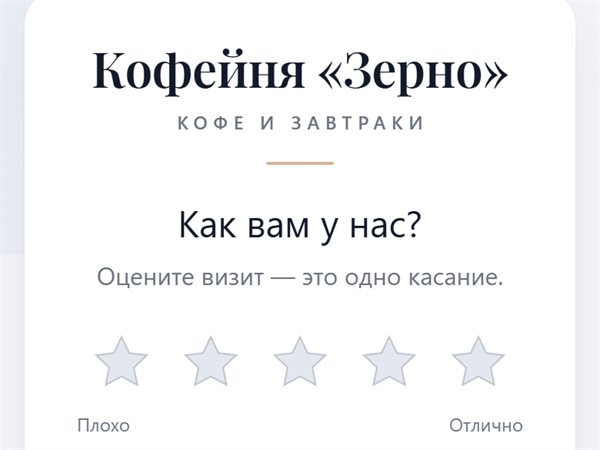
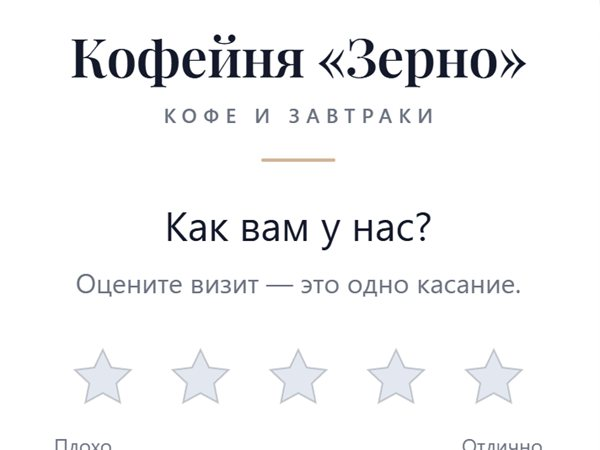
Лендинг: скриншоты без серых полос по бокам

diff --git a/index.html b/index.html
@@ -1100,7 +1100,7 @@
           <h3 class="panel-title">Гостю</h3>
           <div class="role-grid">
             <article class="feat">
-              <figure class="shot"><img src="/assets/roles/g1-rate.jpg" width="600" height="450" alt="Экран гостя после касания карты: «Как вам у нас?» и пять звёзд" loading="lazy" decoding="async"></figure>
+              <figure class="shot"><img src="/assets/roles/g1-rate.jpg?v=2" width="600" height="450" alt="Экран гостя после касания карты: «Как вам у нас?» и пять звёзд" loading="lazy" decoding="async"></figure>
               <h3>Отзыв за 10 секунд</h3>
               <p>Касание, оценка — и форма отзыва на картах уже открыта. Без приложений и регистрации.</p>
             </article>
@@ -1134,12 +1134,12 @@
               <p>Колесо подарков после оценки, штампы за визиты и особый подарок постоянным гостям.</p>
             </article>
             <article class="feat">
-              <figure class="shot"><img src="/assets/roles/g3-points.jpg" width="600" height="450" alt="Экран баллов гостя: код для персонала и баланс 340 баллов" loading="lazy" decoding="async"></figure>
+              <figure class="shot"><img src="/assets/roles/g3-points.jpg?v=2" width="600" height="450" alt="Экран баллов гостя: код для персонала и баланс 340 баллов" loading="lazy" decoding="async"></figure>
               <h3>Баллы с каждого чека</h3>
               <p>Гость показывает код, баллы копятся и потом списываются как скидка.</p>
             </article>
             <article class="feat">
-              <figure class="shot"><img src="/assets/roles/g4-table.jpg" width="600" height="450" alt="Карта на столе: кнопки «Позвать официанта», «Попросить счёт» и «Меню и заказ»" loading="lazy" decoding="async"></figure>
+              <figure class="shot"><img src="/assets/roles/g4-table.jpg?v=2" width="600" height="450" alt="Карта на столе: кнопки «Позвать официанта», «Попросить счёт» и «Меню и заказ»" loading="lazy" decoding="async"></figure>
               <h3>Меню и официант со стола</h3>
               <p>Меню с фото, заказ прямо со стола, «Позвать официанта» и «Попросить счёт».</p>
               <p class="plan-tag">Модуль «Сервис в зале»</p>
@@ -1151,24 +1151,24 @@
           <h3 class="panel-title">Персоналу</h3>
           <div class="role-grid">
             <article class="feat">
-              <figure class="shot"><img src="/assets/roles/s1-calls.jpg" width="600" height="450" alt="Телефон официанта: вызовы «Стол 5 — просят счёт» с кнопками «Принял» и «Готово»" loading="lazy" decoding="async"></figure>
+              <figure class="shot"><img src="/assets/roles/s1-calls.jpg?v=2" width="600" height="450" alt="Телефон официанта: вызовы «Стол 5 — просят счёт» с кнопками «Принял» и «Готово»" loading="lazy" decoding="async"></figure>
               <h3>Вызовы со звуком</h3>
               <p>Официант видит «Стол 5 — просят счёт» на своём телефоне и в чате смены. Не нужно ловить взгляд гостя.</p>
               <p class="plan-tag">Модуль «Сервис в зале»</p>
             </article>
             <article class="feat">
-              <figure class="shot"><img src="/assets/roles/s2-order.jpg" width="600" height="450" alt="Заказ со стола 7 на телефоне официанта: капучино и чизкейк" loading="lazy" decoding="async"></figure>
+              <figure class="shot"><img src="/assets/roles/s2-order.jpg?v=2" width="600" height="450" alt="Заказ со стола 7 на телефоне официанта: капучино и чизкейк" loading="lazy" decoding="async"></figure>
               <h3>Заказ со стола — сразу официанту</h3>
               <p>Гость выбрал блюда в меню, официант получил готовый список. Меньше беготни и ошибок в заказе.</p>
               <p class="plan-tag">Модуль «Сервис в зале»</p>
             </article>
             <article class="feat">
-              <figure class="shot"><img src="/assets/roles/s3-staff.jpg" width="600" height="450" alt="Статистика владельца: оценки официантов Анны и Ильи" loading="lazy" decoding="async"></figure>
+              <figure class="shot"><img src="/assets/roles/s3-staff.jpg?v=2" width="600" height="450" alt="Статистика владельца: оценки официантов Анны и Ильи" loading="lazy" decoding="async"></figure>
               <h3>Личные оценки и чаевые</h3>
               <p>У официанта своя карта: оценки гостей засчитываются ему, а чаевые идут по его личной ссылке.</p>
             </article>
             <article class="feat">
-              <figure class="shot"><img src="/assets/roles/s4-desk.jpg" width="600" height="450" alt="Касса подарков: код введён, «Код погашен — можно выдавать подарок»" loading="lazy" decoding="async"></figure>
+              <figure class="shot"><img src="/assets/roles/s4-desk.jpg?v=2" width="600" height="450" alt="Касса подарков: код введён, «Код погашен — можно выдавать подарок»" loading="lazy" decoding="async"></figure>
               <h3>Подарок — за 2 секунды</h3>
               <p>Ввели 6 символов на ссылке-кассе — подарок погашен. Без кассового софта и планшета.</p>
             </article>
@@ -1179,23 +1179,23 @@
           <h3 class="panel-title">Владельцу</h3>
           <div class="role-grid">
             <article class="feat">
-              <figure class="shot"><img src="/assets/roles/o1-complaints.jpg" width="600" height="450" alt="Сообщение недовольного гостя с причиной и номером для звонка" loading="lazy" decoding="async"></figure>
+              <figure class="shot"><img src="/assets/roles/o1-complaints.jpg?v=2" width="600" height="450" alt="Сообщение недовольного гостя с причиной и номером для звонка" loading="lazy" decoding="async"></figure>
               <h3>Жалобы — вам первым</h3>
               <p>Если гостю что-то не понравилось, он пишет вам в Telegram с причиной и может попросить перезвонить.</p>
             </article>
             <article class="feat">
-              <figure class="shot"><img src="/assets/roles/o2-funnel.jpg" width="600" height="450" alt="Путь гостя: открыли страницу, оценили, перешли к отзыву, получили подарок" loading="lazy" decoding="async"></figure>
+              <figure class="shot"><img src="/assets/roles/o2-funnel.jpg?v=2" width="600" height="450" alt="Путь гостя: открыли страницу, оценили, перешли к отзыву, получили подарок" loading="lazy" decoding="async"></figure>
               <h3>Путь гостя в цифрах</h3>
               <p>Сколько людей открыли карту, оценили, перешли к отзыву и вернулись за подарком. По каждой карте и точке.</p>
             </article>
             <article class="feat">
-              <figure class="shot"><img src="/assets/roles/o3-ai.jpg" width="600" height="450" alt="AI-разбор: срочное сообщение о возможном отравлении" loading="lazy" decoding="async"></figure>
+              <figure class="shot"><img src="/assets/roles/o3-ai.jpg?v=2" width="600" height="450" alt="AI-разбор: срочное сообщение о возможном отравлении" loading="lazy" decoding="async"></figure>
               <h3>AI отмечает срочное</h3>
               <p>Отравление, грубость, опасная ситуация — сразу с пометкой «Срочно». По понедельникам — разбор недели.</p>
               <p class="plan-tag">Модуль «AI»</p>
             </article>
             <article class="feat">
-              <figure class="shot"><img src="/assets/roles/o4-score.jpg" width="600" height="450" alt="TapReview Score заведения: 71 из 100" loading="lazy" decoding="async"></figure>
+              <figure class="shot"><img src="/assets/roles/o4-score.jpg?v=2" width="600" height="450" alt="TapReview Score заведения: 71 из 100" loading="lazy" decoding="async"></figure>
               <h3>Отчёт в Telegram</h3>
               <p>Итоги недели по понедельникам, итоги месяца и TapReview Score — без входа в кабинет.</p>
             </article>
